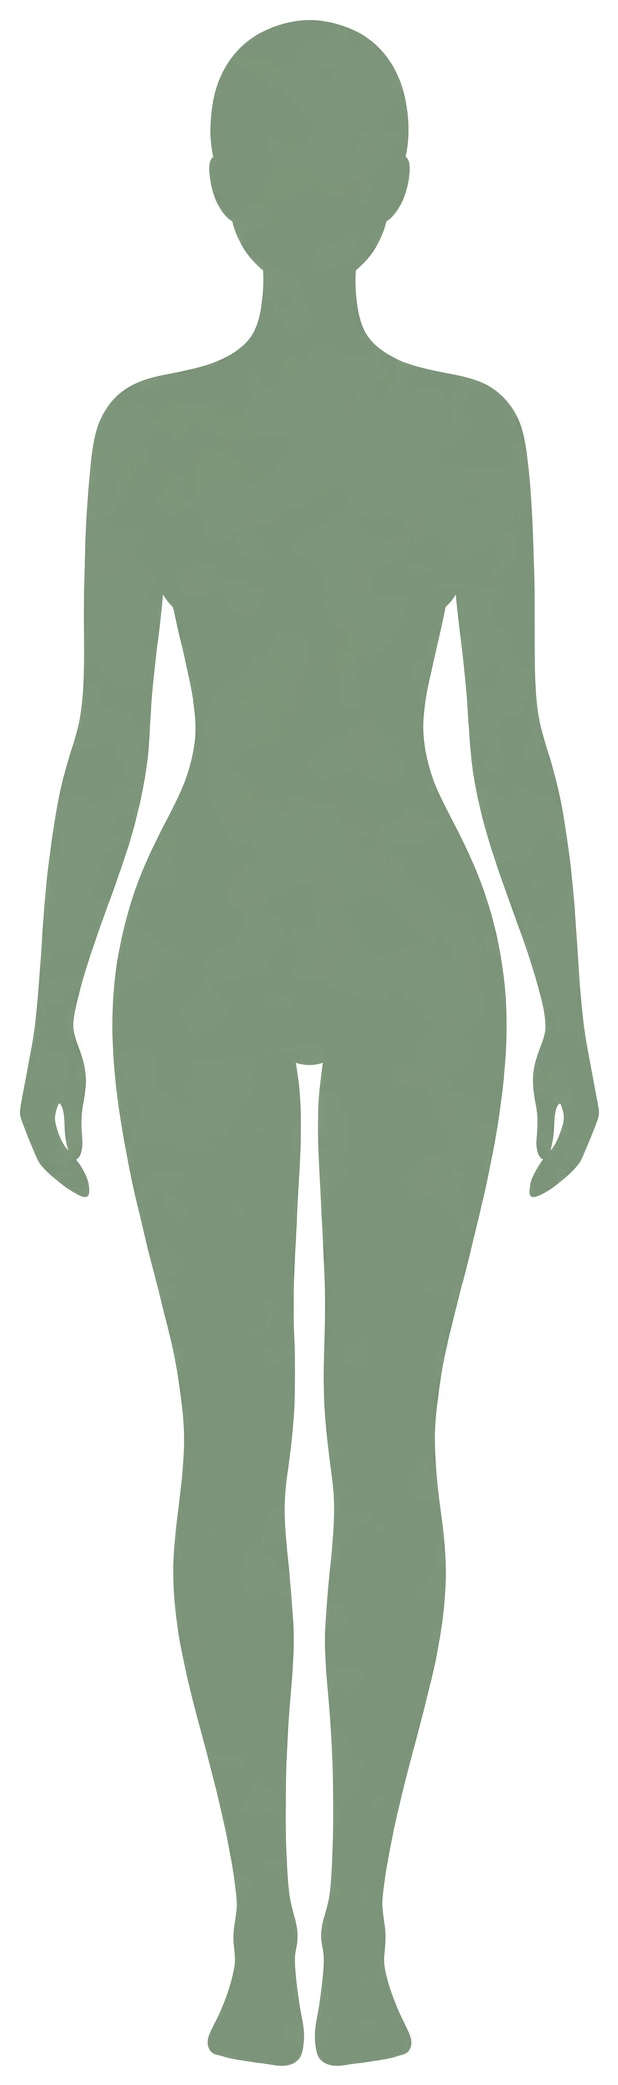
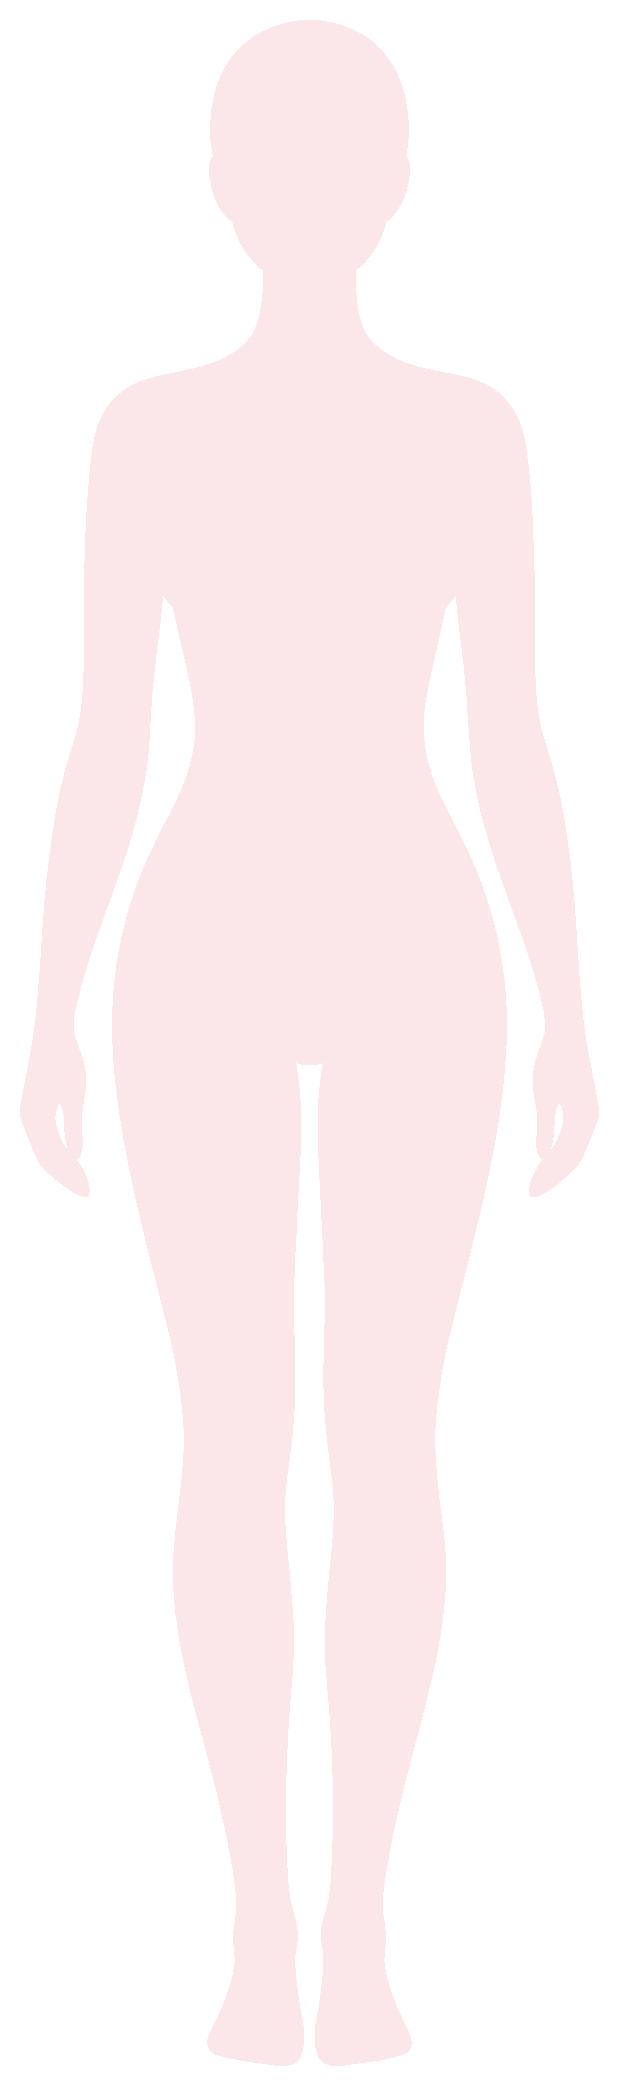
Body map: light pink transparent silhouette

diff --git a/tracker-app/sw.js b/tracker-app/sw.js
@@ -4,7 +4,7 @@
  * https://millrjess.github.io/tracker/
  */
 
-const CACHE_NAME = "new-chapter-tracker-v57";
+const CACHE_NAME = "new-chapter-tracker-v58";
 const ASSETS = [
   "./",
   "./index.html",
